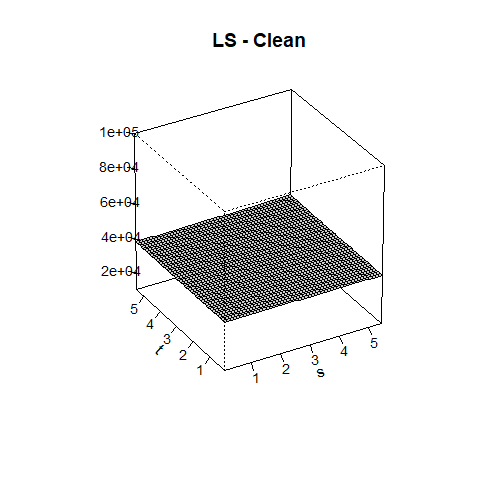
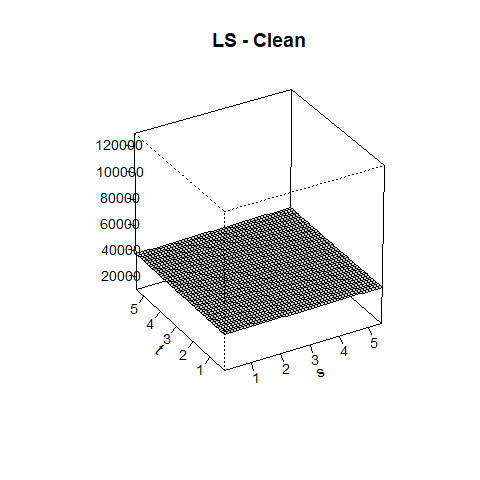
tidied up code chunks, cleaned up most outlying curves plot

Changed region(s): [[0.1875, 0.4062, 0.8125, 0.7188], [0.1875, 0.25, 0.3125, 0.3125], [0.1875, 0.3438, 0.3125, 0.375]]

diff --git a/README.md b/README.md
@@ -14,24 +14,24 @@ See the **human-readable version**
 thing**
 [here](https://creativecommons.org/licenses/by-sa/4.0/legalcode).
 
-#### Installing the `sparseFPCA` package for `R`
-
-Until the package is available in CRAN, it can be installed directly
-from this repository using the following command in `R`:
-
-``` r
-devtools::install_github('msalibian/sparseFPCA', ref = "master")
-```
-
 ## sparseFPCA - Robust FPCA for sparsely observed curves
 
 The `sparseFPCA` package implements the robust functional principal
 components analysis (FPCA) estimator introduced in [Boente and
 Salibian-Barrera, 2020](https://github.com/msalibian/sparseFPCA).
 `sparseFPCA` computes robust estimators for the mean and covariance
-(scatter) function, and the associated eigenfunctions. It can be used
-with functional data sets where there only a few observations available
-per curve (possibly recorded at irregular intervals).
+(scatter) functions, and the corresponding eigenfunctions. It can be
+used with functional data sets where only a few observations per curve
+are available (possibly recorded at irregular intervals).
+
+#### Installing the `sparseFPCA` package for `R`
+
+The package can be installed directly from this repository using the
+following command in `R`:
+
+``` r
+devtools::install_github('msalibian/sparseFPCA', ref = "master")
+```
 
 ## An example - CD4 counts data
 
@@ -114,10 +114,10 @@ n <- length(X$x)
 plot(seq(ymi, yma, length=5), seq(xmi, xma,length=5), type='n', xlab='t', ylab='X(t)')
 for(i in 1:n) { lines(X$pp[[i]], X$x[[i]], col='gray', lwd=1, type='b', pch=19, 
                      cex=1) }
+lens <- sapply(X$x, length)
 set.seed(22)
-ii <- sample((1:n)[sapply(X$x, length)==2], 1)
-ii <- c(ii, sample((1:n)[sapply(X$x, length)==5], 1))
-ii <- c(ii, sample((1:n)[sapply(X$x, length)==10], 1))
+ii <- c(sample((1:n)[lens==2], 1), sample((1:n)[lens==5], 1), 
+        sample((1:n)[lens==10], 1))
 for(i in ii) lines(X$pp[[i]], X$x[[i]], col='black', lwd=4, type='b', pch=19, 
                    cex=1, lty=1)
 ```
@@ -158,20 +158,21 @@ the PACE estimator. This step may take several minutes to run:
 
 ``` r
 ours.ls <- lsfpca(X=X, ncpus=ncpus, hs.mu=hs.mu, hs.cov=hs.cov, rho.param=rho.param, 
-                  k = k, s = k, trace=FALSE, seed=seed, k.cv=k.cv, ncov=ncov, max.kappa=max.kappa)
-ours.r <- efpca(X=X, ncpus=ncpus, hs.mu=hs.mu, hs.cov=hs.cov, rho.param=rho.param, alpha=0.2,
-                k = k, s = k, trace=FALSE, seed=seed, k.cv=k.cv, ncov=ncov, max.kappa=max.kappa)
+                  k = k, s = k, trace=FALSE, seed=seed, k.cv=k.cv, ncov=ncov,
+                  max.kappa=max.kappa)
+ours.r <- efpca(X=X, ncpus=ncpus, hs.mu=hs.mu, hs.cov=hs.cov, rho.param=rho.param,
+                alpha=0.2, k = k, s = k, trace=FALSE, seed=seed, k.cv=k.cv, ncov=ncov,
+                max.kappa=max.kappa)
 myop <- list(error=TRUE, methodXi='CE', dataType='Sparse', 
-             userBwCov = 1.5, userBwMu= .3, 
-             kernel='epan', verbose=FALSE, nRegGrid=50)
+             userBwCov = 1.5, userBwMu= .3, kernel='epan', verbose=FALSE, nRegGrid=50)
 pace <- FPCA(Ly=X$x, Lt=X$pp, optns=myop)
 ```
 
 The coverage plot:
 
 ``` r
-plot(ours.ls$ma$mt[,1], ours.ls$ma$mt[,2], pch=19, col='gray70', cex=.8, xlab='s', ylab='t', cex.lab=1.2,
-     cex.axis=1.1)
+plot(ours.ls$ma$mt[,1], ours.ls$ma$mt[,2], pch=19, col='gray70', cex=.8, 
+     xlab='s', ylab='t', cex.lab=1.2, cex.axis=1.1)
 points(ours.ls$ma$mt[,1], ours.ls$ma$mt[,1], pch=19, col='gray70', cex=.8)
 ```
 
@@ -196,21 +197,18 @@ filled.contour(tt, ss, G.pace, main='PACE')
 Another take:
 
 ``` r
-persp(ours.ls$tt, ours.ls$ss, G.ls, xlab="s", ylab="t", zlab=" ", zlim=c(10000, 100000),
-      theta = -30, phi = 30, r = 50, col="gray90",
-      ltheta = 120, shade = 0.15,
-      ticktype="detailed", cex.axis=0.9, cex.lab=.9,
-      main = 'LS')
-persp(ours.r$tt, ours.r$ss, G.r, xlab="s", ylab="t", zlab=" ",  zlim=c(10000, 100000),
-      theta = -30, phi = 30, r = 50, col="gray90",
-      ltheta = 120, shade = 0.15,
-      ticktype="detailed", cex.axis=0.9,
-      main = 'ROB')
-persp(pace$workGrid, pace$workGrid, G.pace, xlab="s", ylab="t", zlab=" ",  zlim=c(10000, 100000),
-      theta = -30, phi = 30, r = 50, col="gray90",
-      ltheta = 120, shade = 0.15,
-      ticktype="detailed", cex.axis=0.9,
-      main = 'PACE')
+persp(ours.ls$tt, ours.ls$ss, G.ls, xlab="s", ylab="t", zlab=" ", 
+      zlim=c(10000, 130000), theta = -30, phi = 30, r = 50, 
+      col="gray90", ltheta = 120, shade = 0.15, ticktype="detailed", 
+      cex.axis=0.9, cex.lab=.9, main = 'LS')
+persp(ours.r$tt, ours.r$ss, G.r, xlab="s", ylab="t", zlab=" ",  
+      zlim=c(10000, 130000), theta = -30, phi = 30, r = 50, 
+      col="gray90", ltheta = 120, shade = 0.15, ticktype="detailed", 
+      cex.axis=0.9, main = 'ROB')
+persp(pace$workGrid, pace$workGrid, G.pace, xlab="s", ylab="t", zlab=" ",  
+      zlim=c(10000, 130000), theta = -30, phi = 30, r = 50, 
+      col="gray90", ltheta = 120, shade = 0.15, ticktype="detailed", 
+      cex.axis=0.9, main = 'PACE')
 ```
 
 <img src="README_files/figure-gfm/covariances.2-1.png" width="33%" /><img src="README_files/figure-gfm/covariances.2-2.png" width="33%" /><img src="README_files/figure-gfm/covariances.2-3.png" width="33%" />
@@ -223,8 +221,8 @@ dd <- svd(ours.r$cov.fun)$d
 ddls <- svd(ours.ls$cov.fun)$d
 ddp <- svd(pace$smoothedCov)$d
 rbind(ours = cumsum(dd)[1:3] / sum(dd), 
-ls = cumsum(ddls)[1:3] / sum(ddls), 
-pace = cumsum(ddp)[1:3] / sum(ddp))
+      ls = cumsum(ddls)[1:3] / sum(ddls), 
+      pace = cumsum(ddp)[1:3] / sum(ddp))
 ```
 
     ##           [,1]      [,2]      [,3]
@@ -238,13 +236,10 @@ estimated scores are:
 ``` r
 colors <- c('skyblue2', 'tomato3', 'gray70') #ROB, LS, PACE
 boxplot(cbind(ours.r$xis[, 1:2], ours.ls$xis[, 1:2], pace$xiEst[, 1:2]), 
-        names = rep(1:2, 3),  
-        col=rep(colors, each=2))
+        names = rep(1:2, 3), col=rep(colors, each=2))
 abline(h=0, lwd=2)
-abline(v=2.5, lwd=2, lty=2)
-abline(v=4.5, lwd=2, lty=2)
-axis(3, las=1, at=c(1.5,3.5,5.5), 
-     cex.axis=1.4, lab=c('ROB', 'LS', 'PACE'),
+abline(v=c(2.5, 4.5), lwd=2, lty=2)
+axis(3, las=1, at=c(1.5,3.5,5.5), cex.axis=1.4, lab=c('ROB', 'LS', 'PACE'),
      line=0.2, pos=NA, col="white")
 ```
 
@@ -276,7 +271,8 @@ for(j in 1:2) {
        main=paste0('Eigenfunction ', j)) 
   lines(tt.ls, phils, lwd=4, lty=2) 
   lines(tt.pace, phipace, lwd=4, lty=3) 
-  legend('topright', legend=c('Robust (ROB)', 'Non-robust (LS)', 'PACE'), lwd=2, lty=1:3)
+  legend('topright', legend=c('Robust (ROB)', 'Non-robust (LS)', 
+                              'PACE'), lwd=2, lty=1:3)
 }
 ```
 
@@ -290,17 +286,11 @@ eigenfunctions.
 ``` r
 kk <- 2
 xis.r  <- ours.r$xis[, 1:kk]
-xis.ls <- ours.ls$xis[, 1:kk]
-xis.pace <- pace$xiEst[, 1:kk]
 dist.ous <- RobStatTM::covRob(xis.r)$dist 
-dist.ls <- RobStatTM::covRob(xis.ls)$dist
-dist.pace <- RobStatTM::covRob(xis.pace)$dist
 ous <- (1:length(dist.ous))[ dist.ous > qchisq(.995, df=kk)]
-ous.ls <- (1:length(dist.ls))[ dist.ls > qchisq(.995, df=kk)]
-ous.pace <- (1:length(dist.pace))[ dist.pace > qchisq(.995, df=kk)]
 ```
 
-We look at the most outlying curves, as flagged by each fit:
+We look at the 5 most outlying curves, as flagged by the robust fit:
 
 ``` r
 xmi <- min( tmp <- unlist(X$x) )
@@ -312,14 +302,8 @@ plot(seq(ymi, yma, length=5), seq(xmi, xma,length=5), type='n', xlab='t', ylab='
 title(main='Most outlying')
 for(i in ii) { lines(X$pp[[i]], X$x[[i]], col='gray', lwd=1, type='b', pch=19, 
                      cex=1.2) }
-ii4 <- order(dist.ous, decreasing=TRUE)[1]
+ii4 <- order(dist.ous, decreasing=TRUE)[1:5]
 for(i in ii4) lines(X$pp[[i]], X$x[[i]], col='blue', lwd=3, type='b', pch=19, cex=1.2)
-ii4 <- order(dist.ls, decreasing=TRUE)[1]
-for(i in ii4) lines(X$pp[[i]], X$x[[i]], col='skyblue', lwd=3, type='b', pch=19, cex=1.2)
-ii4 <- order(dist.pace, decreasing=TRUE)[1]
-for(i in ii4) lines(X$pp[[i]], X$x[[i]], col='tomato3', lwd=3, type='b', pch=19, cex=1.2)
-legend('topright', legend=c('ROB', 'LS', 'PACE'), lty=1, lwd=2,
-       col=c('blue', 'skyblue3', 'tomato3'))
 ```
 
 ![](README_files/figure-gfm/most.outlying-1.png)<!-- -->
@@ -330,16 +314,16 @@ We now remove the outliers and re-fit the non-robust estimators:
 
 ``` r
 X.clean <- X
-remove.these <- ous 
-X.clean$x <- X$x[ -remove.these ]
-X.clean$pp <- X$pp[ -remove.these ]
+X.clean$x <- X$x[ -ous ]
+X.clean$pp <- X$pp[ -ous ]
 ```
 
 Now re-fit on the “clean” data:
 
 ``` r
-ours.ls.clean <- lsfpca(X=X.clean, ncpus=ncpus, hs.mu=hs.mu, hs.cov=hs.cov, rho.param=rho.param, 
-                  k = k, s = k, trace=FALSE, seed=seed, k.cv=k.cv, ncov=ncov, max.kappa=max.kappa)
+ours.ls.clean <- lsfpca(X=X.clean, ncpus=ncpus, hs.mu=hs.mu, hs.cov=hs.cov,
+                        rho.param=rho.param, k = k, s = k, trace=FALSE, 
+                        seed=seed, k.cv=k.cv, ncov=ncov, max.kappa=max.kappa)
 myop.clean <- list(error=TRUE, methodXi='CE', dataType='Sparse', 
              userBwCov = 1.5, userBwMu= .3, 
              kernel='epan', verbose=FALSE, nRegGrid=50)
@@ -365,21 +349,16 @@ filled.contour(tt, ss, G.pace.clean, main='PACE - Clean')
 And:
 
 ``` r
-persp(ours.ls.clean$ss, ours.ls.clean$ss, G.ls.clean, xlab="s", ylab="t", zlab=" ",  zlim=c(10000, 100000), 
-      theta = -30, phi = 30, r = 50, col="gray90",
-      ltheta = 120, shade = 0.15, 
-      ticktype="detailed", cex.axis=0.9,
+persp(ours.ls.clean$ss, ours.ls.clean$ss, G.ls.clean, xlab="s", ylab="t", zlab=" ", 
+      zlim=c(10000, 130000), theta = -30, phi = 30, r = 50, col="gray90",
+      ltheta = 120, shade = 0.15, ticktype="detailed", cex.axis=0.9,
       main = 'LS - Clean')
-persp(ours.r$ss, ours.r$ss, G.r, xlab="s", ylab="t", zlab=" ",  zlim=c(10000, 100000),
-      theta = -30, phi = 30, r = 50, col="gray90",
-      ltheta = 120, shade = 0.15,
-      ticktype="detailed", cex.axis=0.9, 
-      main ='ROB')
-persp(pace.clean$workGrid, pace.clean$workGrid, G.pace.clean, xlab="s", ylab="t", zlab=" ", 
-      zlim=c(10000, 100000),
-      theta = -30, phi = 30, r = 50, col="gray90",
-      ltheta = 120, shade = 0.15,
-      ticktype="detailed", cex.axis=0.9, 
+persp(ours.r$ss, ours.r$ss, G.r, xlab="s", ylab="t", zlab=" ",  
+      zlim=c(10000, 130000), theta = -30, phi = 30, r = 50, col="gray90",
+      ltheta = 120, shade = 0.15, ticktype="detailed", cex.axis=0.9, main ='ROB')
+persp(pace.clean$workGrid, pace.clean$workGrid, G.pace.clean, xlab="s", ylab="t", 
+      zlab=" ", zlim=c(10000, 130000), theta = -30, phi = 30, r = 50, 
+      col="gray90", ltheta = 120, shade = 0.15, ticktype="detailed", cex.axis=0.9, 
       main = 'PACE - Clean')
 ```
 
@@ -410,7 +389,8 @@ for(j in 1:2) {
        xlab='t', ylab=expression(hat(phi)), cex.lab=1.1)
   lines(tt.ls, phils, lwd=4, lty=2) 
   lines(tt.pace, phipace, lwd=4, lty=3) 
-  legend('topright', legend=c('Robust (ROB)', 'Non-robust (LS)', 'PACE'), lwd=2, lty=1:3)
+  legend('topright', legend=c('Robust (ROB)', 'Non-robust (LS)', 
+                              'PACE'), lwd=2, lty=1:3)
 }
 ```
 
